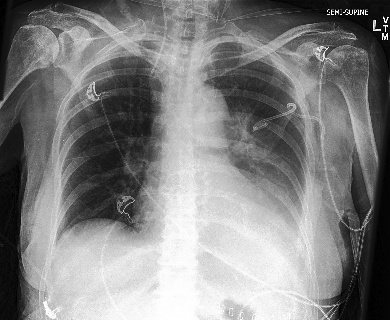
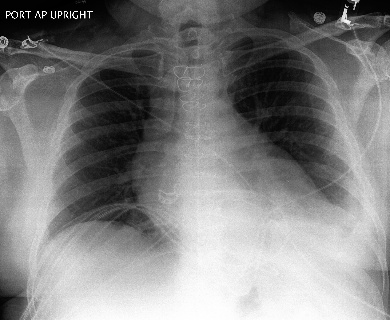
Fixed Path for raw data download

diff --git a/data/generate_manifests.py b/data/generate_manifests.py
@@ -153,8 +153,8 @@ def _save(df: pl.DataFrame, path: Path, label: str) -> None:
 # ---------------------------------------------------------------------------
 
 if __name__ == "__main__":
-    base_dir = _PROJECT_ROOT / "src" / "data"  # manifests written alongside raw data
-    data_dir = base_dir / "1"                  # src/data/1/ — CheXpert images + CSVs
+    base_dir = _PROJECT_ROOT / "data" / "processed"  # manifests go to data/processed/
+    data_dir = _PROJECT_ROOT / "data" / "raw" / "1"  # data/raw/1/ — CheXpert images + CSVs
 
     train_csv = data_dir / "train.csv"
     valid_csv = data_dir / "valid.csv"

diff --git a/data/download_raw_data.py b/data/download_raw_data.py
@@ -3,7 +3,7 @@ import os
 from dotenv import load_dotenv
 import kagglehub  # make sure you have this installed
 
-def download_chexpert_dataset(target_dir: str = "src/data") -> Path:
+def download_chexpert_dataset(target_dir: str = "data/raw") -> Path:
     """
     Downloads CheXpert dataset from Kaggle and extracts it directly to target_dir.
 

diff --git a/data/style_transfer_algos/generate_stylized.py b/data/style_transfer_algos/generate_stylized.py
@@ -51,7 +51,7 @@ SUFFIX_MAP = {
 
 KNOWN_SUFFIXES = set(SUFFIX_MAP.values())
 TARGET_SIZE    = (224, 224)
-IMAGE_ROOT     = Path(_PROJECT_ROOT) / "src" / "data" / "1"
+IMAGE_ROOT     = Path(_PROJECT_ROOT) / "data" / "raw" / "1"
 
 
 # ---------------------------------------------------------------------------

diff --git a/README.md b/README.md
@@ -67,7 +67,7 @@ This downloads CheXpert-v1.0-small from Kaggle and places it under `src/data/1/`
 After download you should have:
 
 ```
-src/data/1/
+data/raw/1/
   train.csv
   valid.csv
   train/
@@ -84,7 +84,7 @@ patient-level train/valid split (seed=42, no patient leakage).
 python -m data.generate_manifests
 ```
 
-This writes to `src/data/`:
+This writes to `data/processed/`:
 
 ```
 train_manifest.parquet       valid_manifest.parquet      test_manifest.parquet
@@ -309,9 +309,7 @@ The app is also deployed on Streamlit Community Cloud — see the repo descripti
 │   │       ├── config_2/               Config 2 — Focal γ=1.5 + sampler, 14 labels
 │   │       ├── config_3/               Config 3 — BCE + sampler, 14 labels
 │   │       └── config_4/               Config 4 — Focal γ=2.0, no sampler, 14 labels
-│   ├── data/
-│   │   ├── 1/                          CheXpert images + CSVs (not committed — re-download with data/download_raw_data.py)
-│   │   └── *.parquet                   generated manifests (not committed — regenerate with data/generate_manifests.py)
+│   ├── data/                           gitignored — regenerate locally (see Setup)
 │   ├── models/
 │   │   └── densenet.py                 DenseNet121 classifier
 │   └── utils/